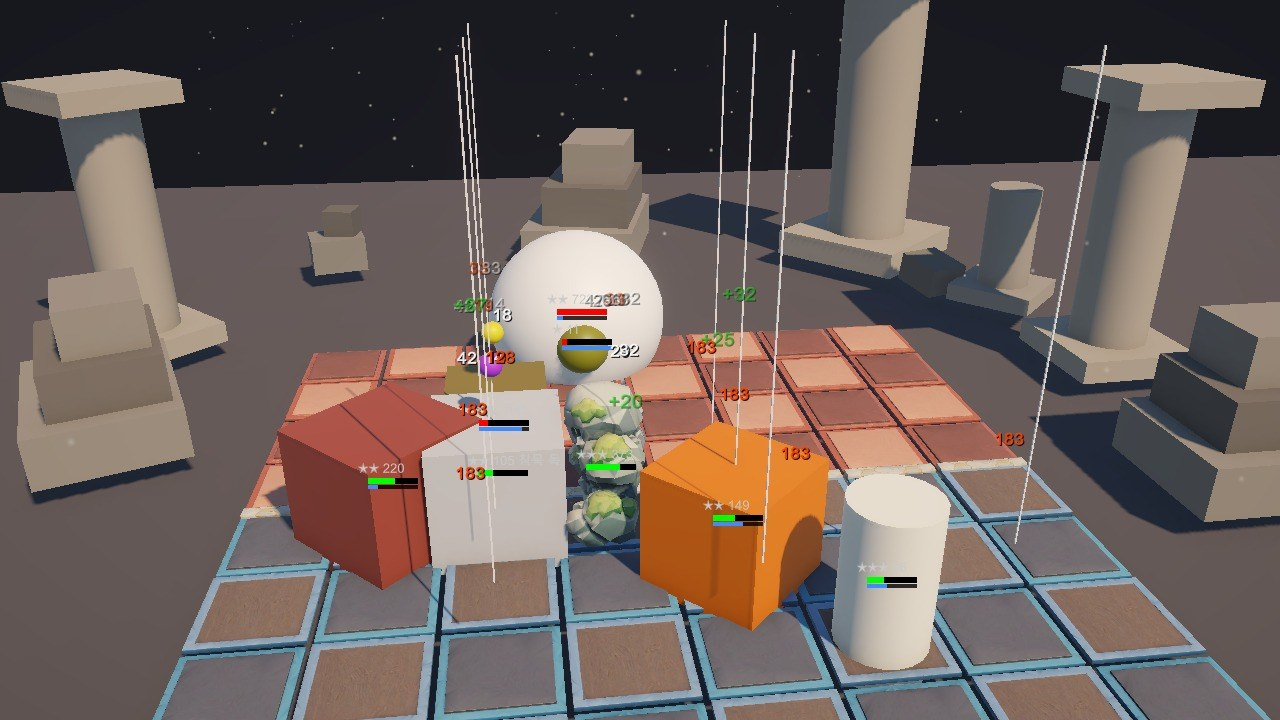
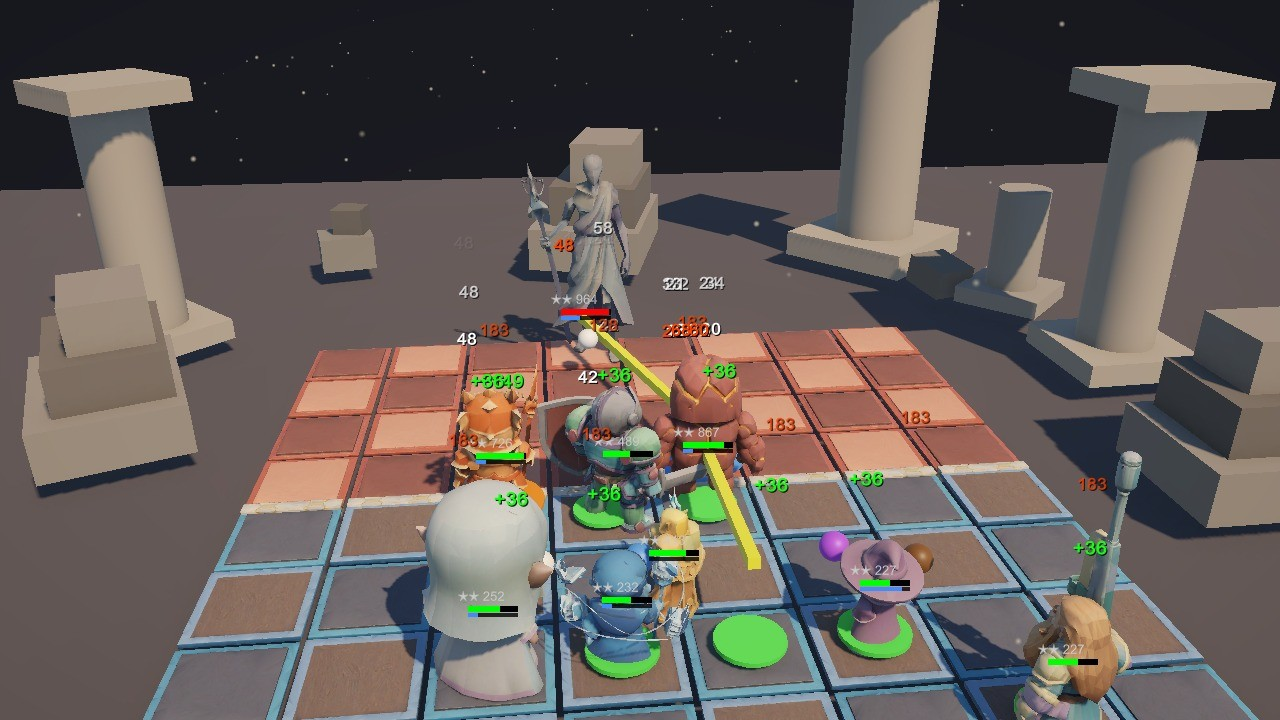
유닛 3D 모델 41종 정리·적용, 유닛 방향 보정, 최종 보스 패배 시 범위 오류 수정, 시연 모드 안정화
- Blender 일괄 정리(면 50만→6천)와 재질 자동 연결로 Unit_01~41 적용 (FBX 약 0.27MB/개)
- 비행함대 폭격기는 코가 +X 라 YawFix 로 -90° 보정
- 30라운드 보스에서 지고 목숨이 남으면 31라운드로 넘어가 오류 나던 문제 수정
- 시연 모드: 아군 보호, 적 체력 증가로 전투를 길게, 보기 좋은 유닛으로 보스전 구성
- README·스크린샷·인수인계 문서 갱신

diff --git a/Assets/Scripts/AutoChessDemo.cs b/Assets/Scripts/AutoChessDemo.cs
@@ -77,6 +77,18 @@ public partial class AutoChess
     void CamHome(float dur) => CamGo(HomePos, HomeLook, 40, dur);
 
     // ---------- 시연 진행 ----------
+    // 적 체력을 키워 전투를 길게 만든다(StartBattle 전에 호출: StartBattle 이 max 기준으로 hp 를 다시 계산함)
+    void DemoBoostFoes(float m)
+    {
+        foreach (var u in us) if (u.team == 1 && !u.temp) { u.max = (int)(u.max * m); u.hp = u.max; }
+    }
+
+    // 아군 체력만 키운다(보스의 전체 공격에 한 번에 쓰러지지 않게). Prep 이 hp 를 max 로 되돌리므로 Prep 전에 호출
+    void DemoBoostHp(float m)
+    {
+        foreach (var u in us) if (u.team == 0 && !u.temp) { u.max = (int)(u.max * m); u.hp = u.max; }
+    }
+
     void DemoBoost(float m)
     {
         foreach (var u in us) if (u.team == 0 && !u.temp) { u.max = (int)(u.max * m); u.hp = u.max; u.atk = (int)(u.atk * m); }
@@ -88,12 +100,17 @@ public partial class AutoChess
         while (battle && t < limit)
         {
             yield return null; t += DemoDt; heal -= DemoDt;
+            foreach (var u in us) if (u.Active && !u.temp && u.team == 0) { int floor = (int)(Cap(u) * .35f); if (u.hp < floor) u.hp = floor; } // 시연용: 아군은 매 프레임 체력 35% 아래로 쓰러지지 않게 보호
             if (t > limit * .6f && speed < 3) { speed = 3; ApplyTime(); } // 너무 길면 빨리 감기
             if (heal <= 0) // 시연용: 밀리면 아군을 조금씩 회복시켜 전투는 길고 치열하게, 결과는 승리로 끝나게 한다
             {
                 heal = .5f; int mine = 0, foe = 0;
                 foreach (var u in us) if (u.Active && !u.temp) { if (u.team == 0) mine += u.hp; else foe += u.hp; }
-                if (mine < foe * .95f) foreach (var u in us) if (u.Active && !u.temp && u.team == 0) u.hp = Mathf.Min(Cap(u), u.hp + (int)(u.max * .035f));
+                if (mine < foe * .95f)
+                {
+                    foreach (var u in us) if (u.Active && !u.temp && u.team == 0) u.hp = Mathf.Min(Cap(u), u.hp + (int)(u.max * .10f));
+                    foreach (var e in us.ToArray()) if (e.Active && !e.temp && e.team == 1) Dmg(e, Mathf.Max(1, (int)(e.max * .05f)), false, false, 0); // 정상 사망 처리를 거치도록 Dmg 사용
+                }
             }
         }
     }
@@ -117,7 +134,7 @@ public partial class AutoChess
 
         // 2) 준비 단계: 상점에서 유닛을 사서 배치
         hideHud = false; shopOpen = true;
-        CamGo(new Vector3(3.5f, 14f, -3.6f), new Vector3(3.5f, 0, 4.2f), 40, 1.2f); // 상점 패널이 가리지 않도록 전장을 화면 아래쪽에 둔다
+        CamGo(new Vector3(3.5f, 11.8f, -2.4f), new Vector3(3.5f, 0, 3.9f), 40, 1.2f); // 상점 패널이 가리지 않도록 전장을 화면 아래쪽에 둔다
         var modeled = new List<int>(); for (int id = 0; id < Kinds; id++) if (AutoChessVisualManager.I.HasUnit(id)) modeled.Add(id);
         if (modeled.Count >= 3) for (int i = 0; i < shop.Length; i++) shop[i] = modeled[Random.Range(0, modeled.Count)]; // 3D 모델이 있는 유닛으로 상점을 채운다
         yield return DWait(1.2f);
@@ -139,25 +156,28 @@ public partial class AutoChess
             SetPos(u, cols[ci], row, false);
             yield return DWait(.4f);
         }
-        DemoBoost(1.0f);
+        DemoBoost(1.0f); DemoBoostFoes(1.6f);
         yield return DWait(1.4f);
 
         // 3) 전투 1: 카메라가 전장을 돌며 보여 준다
         shopOpen = false; hideHud = true;
         StartBattle(); speed = 1; ApplyTime();
-        CamOrbit(new Vector3(3.5f, 0, 3.6f), 12f, 9f, 170, 225, 18f, 0.5f, 38);
+        CamOrbit(new Vector3(3.5f, 0, 3.7f), 8.6f, 6.4f, 165, 225, 18f, 0.6f, 38);
         yield return DemoWaitBattle(60f);
+        Debug.Log($"[DEMO] 전투1 종료: 목숨 {life}, 라운드 {round}");
         yield return DWait(.6f);
         hideHud = false; CamHome(1.8f);
         yield return DWait(3.2f);
 
         // 4) 보스전: 3스테이지급 라인업을 미리 구성해 스킬을 보여 준다
         foreach (var u in us.ToArray()) if (u.team == 0) { Destroy(u.go); us.Remove(u); }
-        int[,] slots = { { 2, 3, 3 }, { 3, 4, 3 }, { 2, 2, 3 }, { 2, 3, 1 }, { 2, 5, 1 }, { 2, 2, 1 }, { 2, 4, 1 }, { 3, 6, 0 } }; // 성급, x, z (앞줄이 먼저)
-        var pick = new List<int>(modeled); foreach (int id in new[] { 16, 25, 20, 22, 29, 28, 35, 21 }) if (!pick.Contains(id)) pick.Add(id);
-        for (int i = 0; i < slots.GetLength(0); i++) Spawn(0, pick[i % pick.Count], slots[i, 1], slots[i, 2], 1.15f, false, slots[i, 0]);
+        int[,] slots = { { 2, 3, 3 }, { 2, 4, 3 }, { 2, 2, 3 }, { 2, 3, 1 }, { 2, 5, 1 }, { 2, 2, 1 }, { 2, 4, 1 }, { 2, 6, 0 } }; // 성급, x, z (앞줄이 먼저)
+        var pick = new List<int> { 16, 25, 20, 22, 29, 28, 35, 21 }; // 보기 좋은 대표 유닛(강철 수호자, 용암 거인, 드래곤 나이트, 대성학자, 시간 술사, 별빛 사제, 천둥 주술사, 저격 명수)
+        foreach (int id in modeled) if (pick.Count < 8 && !pick.Contains(id)) pick.Add(id); // 모델이 없는 유닛이 있으면 있는 것으로 대체
+        for (int i = 0; i < slots.GetLength(0); i++) Spawn(0, pick[i % pick.Count], slots[i, 1], slots[i, 2], 0.85f, false, slots[i, 0]);
+        DemoBoostHp(3.5f);
         round = 30; level = 8; gold = 30; Prep();   // 최종 보스 3-10 제우스
-        hideHud = false; shopOpen = false;
+        hideHud = false; shopOpen = false; DemoBoostFoes(1.4f);
         yield return DWait(1.6f);
         hideHud = true; speed = 1;
         StartBattle(); speed = 1; ApplyTime();
@@ -165,7 +185,8 @@ public partial class AutoChess
         yield return DWait(9.2f);
         CamOrbit(new Vector3(3.5f, 0.3f, 4.4f), 11f, 8f, 150, 205, 16f, 0.6f, 40);
         yield return DemoWaitBattle(80f);
-        yield return DWait(1.4f);
+        Debug.Log($"[DEMO] 보스전 종료: 목숨 {life}, 클리어 {cleared}");
+        yield return DWait(.8f);
 
         // 5) 엔딩 카드
         yield return Fade(1, 1.2f);

diff --git a/Assets/Scripts/AutoChess.cs b/Assets/Scripts/AutoChess.cs
@@ -245,7 +245,7 @@ public partial class AutoChess : MonoBehaviour
         var u = new U { team = team, id = id, star = star, hp = (int)(d.hp * m), atk = (int)(d.atk * m), range = d.range, x = x, z = z, sx = x, sz = z, go = go, bench = bench,
             prefab = pf, y0 = pf ? 0 : .5f, top = top, baseSz = pf ? Vector3.one : d.sz };
         u.max = u.hp;
-        u.look = Home(team); u.go.transform.rotation = Rot(u.look);
+        u.look = Home(team); u.go.transform.rotation = Rot(u.look, u.id);
         Place(u);
         us.Add(u);
         return u;
@@ -253,7 +253,9 @@ public partial class AutoChess : MonoBehaviour
 
     // 방향: 모델은 기본으로 +Z(적 진영 쪽)를 바라본다. 아군은 적 진영(+Z), 적은 아군 진영(-Z)을 마주 보고, 전투 중에는 공격·이동하는 쪽을 본다.
     static Vector3 Home(int team) => team == 0 ? Vector3.forward : Vector3.back;
-    static Quaternion Rot(Vector3 look) => Quaternion.LookRotation(look);
+    // 모델 자체의 앞이 +Z 가 아닌 유닛은 여기서 보정(도). 비행함대 폭격기(Unit_39)는 코가 +X 쪽이라 -90°
+    static float YawFix(int id) => id == (int)UnitId.AirFleetBomber ? -90f : 0f;
+    static Quaternion Rot(Vector3 look, int id) => Quaternion.LookRotation(look) * Quaternion.Euler(0, YawFix(id), 0);
     static void Face(U u, int tx, int tz) { var d = new Vector3(tx - u.x, 0, tz - u.z); if (d.sqrMagnitude > 0) u.look = d.normalized; }
 
     static Vector3 Pos(U u) => new Vector3(u.x, u.y0, u.bench ? BenchZ : u.z);
@@ -278,7 +280,7 @@ public partial class AutoChess : MonoBehaviour
         {
             u.hp = u.max; u.shield = u.mana = u.stun = u.slow = u.silence = u.poison = u.invuln = u.buff = 0; u.acc = 0;
             if (!u.bench) { u.x = u.sx; u.z = u.sz; }
-            u.look = Home(u.team); u.go.transform.rotation = Rot(u.look);
+            u.look = Home(u.team); u.go.transform.rotation = Rot(u.look, u.id);
             u.go.SetActive(true); Place(u);
         }
         SpawnEnemies();
@@ -400,7 +402,7 @@ public partial class AutoChess : MonoBehaviour
             u.kick = Vector3.MoveTowards(u.kick, Vector3.zero, 3 * Time.deltaTime);
             u.flash = Mathf.Max(0, u.flash - Time.deltaTime);
             u.go.transform.position = Vector3.MoveTowards(u.go.transform.position, Pos(u) + u.kick, 12 * Time.deltaTime);
-            u.go.transform.rotation = Quaternion.RotateTowards(u.go.transform.rotation, Rot(u.look), 720 * Time.deltaTime);
+            u.go.transform.rotation = Quaternion.RotateTowards(u.go.transform.rotation, Rot(u.look, u.id), 720 * Time.deltaTime);
             u.go.transform.localScale = u.baseSz * (1 + .2f * (u.star - 1)) * (u.boss ? 1.8f : 1) * (1 + u.flash * 2);
         }
         foreach (var pr in ps) // 투사체 비행(연출): 피해는 LandProjectiles에서 틱 단위로 처리. 타겟이 판매돼 사라졌으면 제자리
@@ -469,7 +471,7 @@ public partial class AutoChess : MonoBehaviour
         if (timedOut) { msg = "시간 초과: " + msg; timedOut = false; }
         if (life <= 0) { EndGame(false); return; } // 최종 도달 = 방금 싸운 라운드
         CalculateRoundIncome(p); // 다음 라운드로 넘어가기 직전에 정산 (round는 방금 싸운 라운드)
-        round++;
+        if (round < StageManager.Rounds) round++; // 마지막 보스(30라운드)에서 졌는데 목숨이 남았으면 31라운드로 넘어가지 않고 보스를 다시 상대한다
         AddXp(AutoXp);
         Prep();
     }

diff --git a/Docs/프로젝트_현황_인수인계.md b/Docs/프로젝트_현황_인수인계.md
@@ -27,7 +27,7 @@
 | `Docs/Varco3D_배경소품_가이드.md` | 배경 테마 소품 20개(테마당 4개) 바르코 프롬프트 + 정리 방법 |
 | `Docs/Varco3D_프롬프트_가이드.md` | 이전 버전 가이드 |
 
-**유닛 색상(중요)**: 바르코 FBX는 색 텍스처가 파일 안에만 있고 Unity가 재질에 연결하지 않아 회색으로 보임. **새 유닛은 `Tools/README_모델정리.md` 순서대로**(원본→RawModels→Blender 스크립트) 정리한 뒤 메뉴 `AutoChess > 유닛 색상 텍스처 추출·적용`을 실행할 것(결과: `Resources/Visuals/UnitTextures/Unit_NN_color.jpg`, `Unit_NN_Mat.mat`). 현재 Unit_01·05, Map_Tile_01~05·07만(06·08은 만들지 않기로 함: 06 없으면 대기석은 05 로 통일, 08 없으면 무대 받침 생략) 정리·적용됨(면 50만→6천(타일 3천), 56MB→0.3MB, 화면상 차이 거의 없음). 타일은 `RawModels/Map/` 에서 옵션 `--faces 3000 --smooth 0.2` (README 참고). 주의: Map_Tile_01 은 프롬프트(크림색 돌)와 달리 바르코가 갈색 나무결+파란색으로 만들어 줌 → 색이 마음에 안 들면 바르코에서 재생성.
+**유닛 색상(중요)**: 바르코 FBX는 색 텍스처가 파일 안에만 있고 Unity가 재질에 연결하지 않아 회색으로 보임. **새 유닛은 `Tools/README_모델정리.md` 순서대로**(원본→RawModels→Blender 스크립트) 정리한 뒤 메뉴 `AutoChess > 유닛 색상 텍스처 추출·적용`을 실행할 것(결과: `Resources/Visuals/UnitTextures/Unit_NN_color.jpg`, `Unit_NN_Mat.mat`). 현재 유닛 Unit_01~41 전부와 Map_Tile_01~05·07(06·08은 만들지 않기로 함: 06 없으면 대기석은 05 로 통일, 08 없으면 무대 받침 생략)이 정리·적용됨(면 50만→6천(타일 3천), 56MB→0.3MB, 화면상 차이 거의 없음). 타일은 `RawModels/Map/` 에서 옵션 `--faces 3000 --smooth 0.2` (README 참고). 주의: Map_Tile_01 은 프롬프트(크림색 돌)와 달리 바르코가 갈색 나무결+파란색으로 만들어 줌 → 색이 마음에 안 들면 바르코에서 재생성.
 
 에셋 폴더: `Assets/Resources/Visuals/{Map,Units,UnitTextures,Environment,UI}` — 파일 이름 `Unit_01~41`, `Map_Tile_01~08`, `UI_Icon_Gold`, `UI_Badge_<종족/직업 영문>`.
 
@@ -54,7 +54,7 @@
 2. 배경 테마 확정: 5개 테마 비교 후 하나를 고르고(나머지는 삭제 가능) 진짜 소품 4개 제작. 아직 모두 도형 임시 소품.
 2-1. 편의: 단축키(스페이스 전투 시작 등), 효과음·배경음, 해상도에 맞춘 글자 크기, 메인 메뉴 꾸미기(배경 이미지·옵션 화면, 지금은 단색 배경 + 버튼만).
 3. 연출 3단계: 사망·등장 연출, 카메라 연출, 효과음.
-4. 에셋: 나머지 유닛 38개를 바르코에서 만들어 Blender 정리 스크립트로 처리(용량 문제는 스크립트로 해결됨). 형태가 뭉개지는 유닛은 이미지→3D 방식 또는 프롬프트 단순화(큼직한 소품, A자 자세)로 재생성. 3D 유닛 회전·애니메이션은 아직 없음(모델 정지 상태 표시).
+4. 에셋: 나머지 유닛 38개를 바르코에서 만들어 Blender 정리 스크립트로 처리(용량 문제는 스크립트로 해결됨). 형태가 뭉개지는 유닛은 이미지→3D 방식 또는 프롬프트 단순화(큼직한 소품, A자 자세)로 재생성. 3D 유닛 애니메이션은 아직 없음(모델 정지 상태 표시, 회전은 대상 쪽으로 돌아봄).
 5. 가제 이름 확정(`GameTitle`), 플레이어 설정(회사명 `DefaultCompany`, 아이콘, 해상도), 코드 파일 분리.
 
 ## 6. 작업 방법과 주의점 (Claude에게)
@@ -69,3 +69,13 @@
 - Play 중 씬 전환 테스트는 `SceneManager.LoadScene("GameScene")` 후 **프레임이 지난 뒤** 별도 호출로 상태를 확인할 것(같은 호출 안에서는 아직 안 바뀜).
 - ExecuteAlways 컴포넌트(MainMenu 등)는 스크립트 재컴파일 뒤에도 비공개 필드 값이 남을 수 있음 → 텍스처·스타일 필드는 `[System.NonSerialized]` 로 표시해 둠. 이미지 파일을 새로 넣은 직후에는 Play 를 껐다 켜거나 씬을 다시 열어야 새 파일을 읽음.
 - 씬 이름은 `AutoChess.GameScene`/`MenuScene` 상수와 일치해야 함(바꾸면 상수도 수정).
+
+## 7. 발표 준비 상태 (2026-10-16)
+
+- **빌드**: Unity 메뉴가 아니라 MCP/에디터 `manage_build` 로 `Builds/Windows/SpiritsAndGiants.exe` 생성 → zip(`Builds/SpiritsAndGiants_Windows.zip`). `Builds/`·`Trailer/`·`TrailerFrames/`·`RawModels/` 는 git 제외.
+- **자동 시연/트레일러**: `AutoChessDemo.cs`. `SpiritsAndGiants.exe -demo -capture TrailerFrames -fps 30 -screen-width 1280 -screen-height 720 -screen-fullscreen 0` → 프레임 JPG → `Tools/make_trailer.py`(Blender) 로 MP4. 시연용으로 아군 보호(체력 하한·체력 증가)와 적 체력 증가를 넣어 승리하도록 연출함(실제 밸런스와 무관). 결과는 Player.log 의 `[DEMO]` 줄로 확인.
+- **유닛 방향**: 모델의 앞은 +Z. 예외는 `AutoChess.YawFix(id)` (비행함대 폭격기 -90°). 새 유닛이 엉뚱한 방향이면 거기에 추가.
+- **고친 게임 버그**: 30라운드(최종 보스)에서 지고 목숨이 남으면 31라운드로 넘어가 `Waves` 범위 오류 → 30라운드에 머물러 보스를 다시 상대하도록 수정.
+- **빌드 오류 주의**: `Assets/VARCO_URP`(바르코 도구 패키지)의 에디터 전용 스크립트가 플레이어 빌드를 막아서 `VarcoLab.asmdef`(Editor 전용)를 추가함. 이 폴더는 git 에 없음.
+- **발표 자료**: PPT 12장은 claude.ai 슬라이드 아티팩트(비공개). 대본은 `Docs/발표_대본_및_영상_제작.md`.
+- **남은 일**: GitHub 공개(저장소 생성·커밋 이메일 정리·약관 확인), 트레일러 배경음악, 사람 기준 난이도 점검, 배경 테마 확정 후 소품 3D 제작.

diff --git a/README.md b/README.md
@@ -72,8 +72,8 @@ SpiritsAndGiants.exe -demo -capture TrailerFrames -fps 30 -screen-width 1280 -sc
 
 ## 현재 상태와 계획
 
-- 3D 모델이 연결된 유닛은 일부(2/40)이고, 나머지는 도형으로 표시된다. 유닛 모델을 순차 제작 중.
-- 밸런스: 사람 기준 클리어 가능 여부 점검 중 (2-10 보스, 3-1 구간).
+- 유닛 40종(+소환 유령) 3D 모델 연결 완료. 배경 테마의 소품은 아직 임시 도형이다.
+- 밸런스: 봇 기준으로는 클리어하지 못했고, 사람 기준 클리어 가능 여부를 점검 중 (2-10 보스, 3-1 구간).
 - 예정: 효과음·배경음, 해상도에 맞춘 UI 크기, 사망·등장 연출.
 
 ## 라이선스
